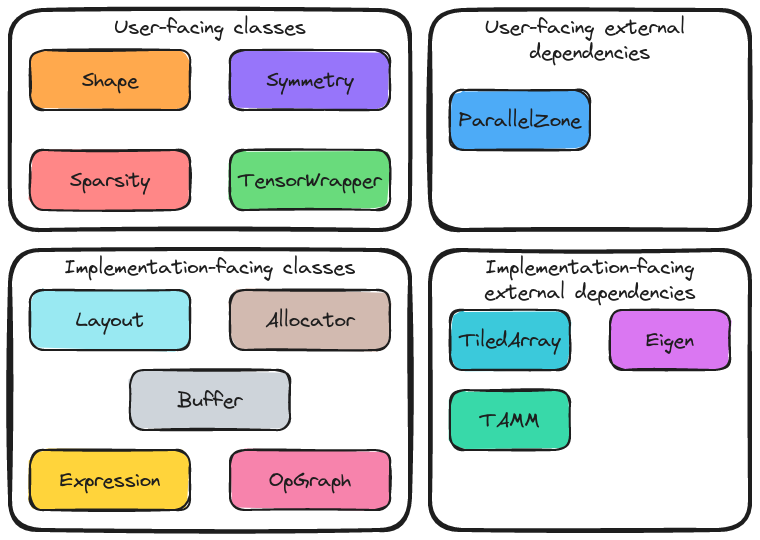
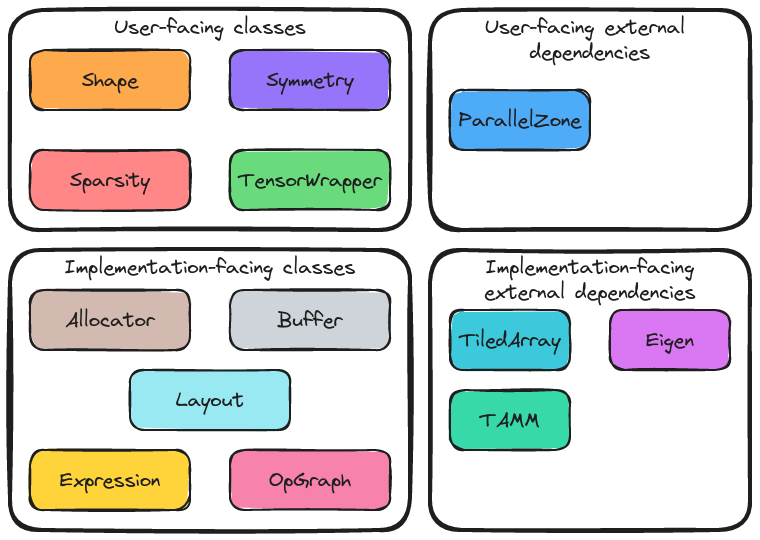
backup [skip ci]

Changed region(s): [[0.1513, 0.6815, 0.3934, 0.8], [0.0303, 0.5333, 0.2724, 0.6519], [0.3026, 0.5333, 0.5145, 0.6519]]

diff --git a/docs/source/developer/design/architecture/shape.rst b/docs/source/developer/design/architecture/shape.rst
@@ -48,6 +48,9 @@ Rank and extents
    The main data in the shape is the :ref:`term_rank` and the
    :ref:`term_extent` s of each mode.
 
+   - Runtime determination of extents is a very common scenario.
+   - Usually know the rank at compile time.
+
 Nested
    While a :ref:`term_nested` tensor may seem exotic, in practice, distributed
    tensors are often implemented by nesting (ideally the user need not be aware
@@ -56,30 +59,214 @@ Nested
 
    - Nestings may be :ref:`term_smooth`  or :ref:`term_jagged`
 
+Combining shapes
+   As we do tensor operations we will need to work out the resulting shapes.
+   This in general requires knowing the indices of the tensor.
+
+Not in Scope
+============
+
+Sparsity
+   The ``Shape`` component is targeted at describing the conceptual layout of
+   the hyper-rectangular array of values. The conceptual layout is independent
+   of the values of the elements. Sparsity is concerned with knowing which
+   elements are zero.
+
+   - Sparsity is punted to :ref:`sparsity_design`.
+
+
+Permutational Symmetry
+   In many cases the elements of a tensor are not all linearly-independent and
+   optimizations are possible by avoiding redundant computation.
+
+   - Antisymmetry, Hermitian, and anti-Hermitian all fall into this
+     consideration too.
+   - Symmetry is punted to :ref:`tw_designing_the_symmetry_component`.
+
 Logical vs actual
    The user declares the tensor with some shape. That shape usually reflects the
    physical problem being modeled. Internally we may need to store the tensor
    as a different shape, for performance reasons. The shape describing how the
    user wants to interact with the tensor is the "logical" shape.
 
-   - The user should interact with the tensor as if it had the external shape.
-   - We should allow the user to override the internal shape if need be.
+   - Both the logical and actual shapes are ``Shape`` objects.
+   - It is the responsibility of the user creating ``Shape`` objects to track
+     if they represent logical or actual shapes.
 
-Non-integral indices
-   Sometimes it is useful to index modes with something other than an offset.
-   For example, one may want to name sub-ranges and refer to blocks by those
-   names.
-
-Not in Scope
-============
-
-Sparsity
-   The shape focuses on properties knowable from the equations.
-
-
-Permutational Symmetry
-   This includes antisymmetry too.
 
 *************
 Proposed APIs
 *************
+
+Constructing a ``Shape``
+========================
+
+Creating a non-nested shape just requires knowing the extent of each mode:
+
+.. code-block:: c++
+
+   Shape null_shape;              // No rank and no elements
+   Shape rank0_shape{};           // A scalar
+   Shape rank1_shape{10};         // 10 element vector
+   Shape rank2_shape{10, 20};     // 10 by 20 matrix
+   Shape rank3_shape{10, 20, 30}; // 10 by 20 by 30 tensor
+
+Note that following usual C++ rules the first two lines actually call
+different constructors (default ctor vs. initializer list). Using an initializer
+list requires us to know the rank at compile time. If we want to determine the
+rank at runtime we can use iterators:
+
+.. code-block:: c++
+
+   // Somehow create a vector of extents
+   using size_type = Shape::size_type;
+   std::vector<size_type> extents = get_extents();
+
+   // Construct Shape from iterator pair
+   Shape runtime_rank_shape(extents.begin(), extents.end());
+
+Constructing a ``NestedShape``
+==============================
+
+Creating a :ref:`term_smooth` nested shape requires knowing the shape of
+each layer's elements. To create two-layered smooth shapes:
+
+.. code-block:: c++
+
+   // Null shape (no nesting, no ranks)
+   NestedShape null_nested;
+
+   // A scalar viewed as a two-layer tensor
+   NestedShape rank0_0{{}, {}};
+
+   // A 10-element vector viewed as a two-layer tensor (index in layer 1)
+   NestedShape rank0_1{{}, {10}};
+
+   // A 10-element vector viewed as a two-layer tensor (index in layer 0)
+   NestedShape rank1_0{{10}, {}};
+
+   // Matrix viewed as a 10-element vector whose elements are 20-element vectors
+   NestedShape rank1_1{{10}, {20}};
+
+   // Same matrix viewed as a two-layer tensor with both indices in layer 1
+   NestedShape rank0_2{{}, {10, 20}};
+
+   // Same matrix viewed as a two-layer tensor with both indices in layer 0
+   NestedShape rank2_0{{10, 20}, {}};
+
+   // 10-element vector with 20 by 30 element matrices as elements
+   NestedShape rank1_2{{10}, {20, 30}};
+
+   // 10 by 20 element matrix with 30 element vectors as elements
+   NestedShape rank2_1{{10, 20}, {30}};
+
+   // 10 by 20 element matrix with 30 by 40 element matrices as elements
+   NestedShape rank2_2{{10, 20}, {30, 40}};
+
+Admittedly it's not immediately clear why one would want to be able to define
+shapes where one layer is rank 0 (maybe just to get the number of layers to
+line up?), but as shown it's no problem with our syntax. This easily
+generalizes to more layers:
+
+.. code-block:: c++
+
+   // A matrix whose elements are matrices of matrices
+   NestedShape rank2_2_2{{10, 20}, {30, 40}, {50, 60}};
+
+In practice the inner initializer lists are used to initialize ``Shape``
+objects so the previous initialization is equivalent to:
+
+.. code-block:: c++
+
+   // 10 by 20 element matrix with 30 by 40 element matrices as elements
+   NestedShape rank2_2_2{Shape{10, 20}, Shape{30, 40}, Shape{50, 60}};
+
+Like ``Shape``, we can determine the number of layers and ranks of each layer
+at runtime using a range ctor:
+
+.. code-block:: c++
+
+   // Somehow get the extents for each layer
+   using shape_type = NestedShape::shape_type;
+   std::vector<shape_type> extents_per_layer = get_extents();
+
+   // Make the shape from iterator pairs
+   NestedShape runtime_layered(extents_per_layer.begin(),
+                               extents_per_layer.end());
+
+Jagged Construction
+===================
+
+:ref:`term_smooth`  tensor can be thought of as a special case of a
+:ref:`term_jagged`` tensor. For a
+.. code-block:: c++
+
+   // For brevity define variables
+   Shape s10({10}), s20({20}), s30({30});
+   Shape s10_20({10, 20}), s30_40({30, 40}), s50_60({50, 60});
+   Shape s10_20_30({10, 20, 30}), s40_50_60({40, 50, 60});
+
+   // No elements, no rank
+   JaggedShape null_shape;
+
+   // A "jagged" scalar (only a single element, so it's also smooth)
+   JaggedShape rank0_shape({});
+
+   // A "jagged" vector (same as a smooth vector)
+   JaggedShape rank1_shape({s10});
+
+   // A jagged matrix with 3 rows; row 0 has 10 elements, row 1 has 20, row 2 30
+   JaggedShape rank2_shape({s10, s20, s30});
+
+   // A jagged rank 3 tensor with smooth matrices. Matrix 0 is 10 by 20,
+   // matrix 1 is 30 by 40, and matrix 2 is 50 by 60
+   JaggedShape rank3_shape({s10_20, s30_40, s50_60});
+
+   // A jagged rank 3 tensor where elements are jagged matrices. Matrix 0 is
+   // 1 by 10, matrix 2 has 20 columns in row 0 and 30 columns in row 2, and
+   // matrix 3 has 30 columns in row 0, 10 columns in row 1, and 20 columns in
+   // row 2
+   JaggedShape rank3_shape2({{s10},
+                             {s20, s30},
+                             {s30, s10, s20}});
+
+    // A jagged rank 4 tensor where the 0-th element of the 0-th mode is a
+    // 10 by 20 by 30 smooth tensor and the 1-st element is a 40 by 50 by 60
+    // smooth tensor
+   JaggedShape rank4_shape({s10_20_30, s40_50_60});
+
+   // A jagged rank 4 tensor where the elements are jagged rank 3 tensors.
+   // Taking slices along the 0 and 1-st modes, the (0,0)-th slice is a 10 by 20
+   // matrix, the (0,1)-th slice is a 30 by 40 matrix, the (1,0)-th slice is
+   // a 30 by 40 matrix, the (1,1)-th slice is a 10 by 20 matrix, and the
+   // (1,2)-th slice is a 50 by 60 matrix
+   JaggedShape rank4_shape2({{s10_20, s30_40},
+                             {s30_40, s10_20, s50_60}});
+
+   // A jagged rank 4 tensors where the elements are jagged rank 3 tensors,
+   // which have jagged matrices for elements. Taking slices along the 0, 1, and
+   // 2 modes we have:
+   // - (0,0,0) is a 10 element vector,
+   // - (0,1,0) is a 20 element vector,
+   // - (0,1,1) is a 30 element vector,
+   // - (1,0,0) is a 10 element vector,
+   // - (1,0,1) is a 30 element vector,
+   // - (1,1,0) is a 20 element vector,
+   // - (1,2,0) is a 10 element vector,
+   // - (1,2,1) is a 20 element vector,
+   // - (1,2,2) is a 30 element vector
+   JaggedShape rank4_shape3({{{s10}, {s20, s30}},
+                             {{s10, s30}, {s20}, {s10, s20, s30}}});
+
+In general a ``JaggedShape`` is an initializer list of ``NestedShape`` objects.
+
+.. code-block:: c++
+
+   JaggedShape rank3_shape2({NestedShape({s10}), NestedShape({s20, s30}),
+                             NestedShape({s30, s10, s20}))
+
+Because the 0-th mode can not be jagged, it takes a minimum of two modes to be
+truly jagged.
+
+Shape Operations
+================

diff --git a/docs/source/developer/design/architecture/overview.rst b/docs/source/developer/design/architecture/overview.rst
@@ -234,6 +234,7 @@ responsible for:
 
 - Symmetry and antisymmetry (real elements)
 - Hermitian and anti-Hermitian (complex elements)
+- Nesting of symmetry
 
 Sparsity
 --------
@@ -244,8 +245,10 @@ While symmetry deals with telling us which elements must be the same (up to a
 sign), sparsity deals with telling us which elements are zero. The ``Sparsity``
 component is responsible for dealing with:
 
-- tracking element-wise sparsity
+- tracking element-wise sparsity (N.B. tile sparsity is element-sparsity in a
+  nested tensor)
 - switching among sparsity representations
+- Nesting of sparsity
 
 TensorWrapper
 -------------
@@ -276,35 +279,20 @@ As shown in :numref:`fig_tw_workflows`, the
 additional components. These components are required to convey additional
 state necessary for performance.
 
-Layout
-------
-
-Main discussion: :ref:`layout_design`.
-
-The ``Shape`` provided by the user is the shape of the tensor's values based on
-the problem. The ``Symmetry`` object tells us which of those values are
-independent. And the ``Sparsity`` object tells us which values are zero.
-Missing still is where in the runtime we should literally put the values, and
-how we should store those values. The ``Layout`` component is charged with
-modeling the mapping of the user-provided tensor state to the physical machine.
-This includes:
-
-- Vectorization strategy (row-major vs. column-major)
-- Value location: RAM, disk, on-the-fly, GPU
-- Actual shape of the tensor (including tiling)
-- Distribution for multi-process tensors.
-
 Allocator
 ---------
 
 Main discussion: :ref:`designing_the_allocator`.
 
-With the ``Layout`` object we know how to physically lay the tensor out in the
-runtime, but we need to actually do it. The ``Allocator`` component wraps the
-process of going from the ``Layout`` to an object of the backend library.
+The ``Allocator`` component wraps the process of going from the actual
+``Shape``, ``Sparsity``, and ``Symmetry`` for the tensor to an object of the
+backend library. Appropriate selection of the allocator determines things such
+as:
 
-- Wrap the process of creating an instance of the backend.
--
+- Fundamental type of the values (*e.g.*, float, double, etc.)
+- Vectorization strategy (row-major vs. column-major)
+- Value location: distribution, RAM, disk, on-the-fly, GPU
+- Distribution strategy
 
 Buffer
 ------
@@ -318,7 +306,25 @@ interface into which the various backends can be attached. The main goals of
 the buffer are:
 
 - Type-erase the backend.
-- Model data locality
+- Record data runtime location
+- Opaquely move data
+
+Layout
+------
+
+Main discussion: :ref:`layout_design`.
+
+The ``Shape`` provided by the user is the shape of the tensor's values based on
+the problem. The ``Symmetry`` object tells us which of those values are
+independent. And the ``Sparsity`` object tells us which values are zero.
+For performance reasons TensorWrapper may opt to actually allocate the tensor
+with different properties. The ``Layout`` component is responsible for
+describing the runtime properties of the tensor:
+
+- Actual shape of the tensor (including tiling)
+- Actual symmetry (accounting for actual shape)
+- Actual sparsity of the tensor (accounting for symmetry)
+- Distribution for multi-process tensors
 
 
 Expression
@@ -330,13 +336,30 @@ Like most tensor libraries, TensorWrapper will rely on an expression layer for
 composing tensor expressions. Strictly, speaking this layer is entered into
 in a user-facing manner; however, the expression layer is specifically designed
 to appear to the user like they are working with only ``TensorWrapper`` objects,
-which is why we consider it an implementation detail.
+which is why we consider it an implementation detail. Responsibilities include:
+
+- Assembling the :ref:`term_cst` from the DSL.
+- Express transformations of a single tensor
+- Express binary operations
+- Represent branching nodes of the abstract syntax tree
 
 
 OpGraph
 -------
 
 Main discussion: :ref:`designing_the_opgraph`.
+
+The ``Expression`` component contains a user-friendly mechanism for composing
+tensors using TensorWrapper's DSL. The result is a CSL. In practice, CSLs
+contain extraneous information (and in C++ are typically represented by
+heavily nested template instantiations which are not fun to look at). The
+``OpGraph`` component is designed to be an easier-to-manipulate,
+more-programmer-friendly representation of the tensor algebra the user
+requested than the ``Expression`` component. It is the ``OpGraph`` which is
+used to drive executing the backends. Responsibilities include:
+
+- Converting the CST to an AST
+- Runtime optimizations of the AST
 
 Implementation-Facing External Dependencies
 ===========================================

diff --git a/docs/source/background/terminology.rst b/docs/source/background/terminology.rst
@@ -131,6 +131,28 @@ has the same shape, :math:`S` is smooth.
 Computer Science Terminology
 ****************************
 
+.. _term_ast:
+
+AST
+===
+
+With respect to source code, an abstract syntax tree (AST) is a representation
+of the structure of what the programmer wrote, whereas a :ref:`term_cst`
+contains the literal representation of what the programmer wrote. Carrying out
+the programmed instructions is easier by traversing an AST, versus a CST,
+because extraneous information has been removed.
+
+.. _term_cst:
+
+CST
+===
+
+With respect to source code, a concrete syntax tree (CST) is a representation
+of the literal source code the programmer wrote. The CST contains all details
+of the source code, including how the programmer chose to represent a
+particular concept. Distilling out the essential concepts leads to an
+:ref:`term_ast`.
+
 .. _term_dsl:
 
 DSL
